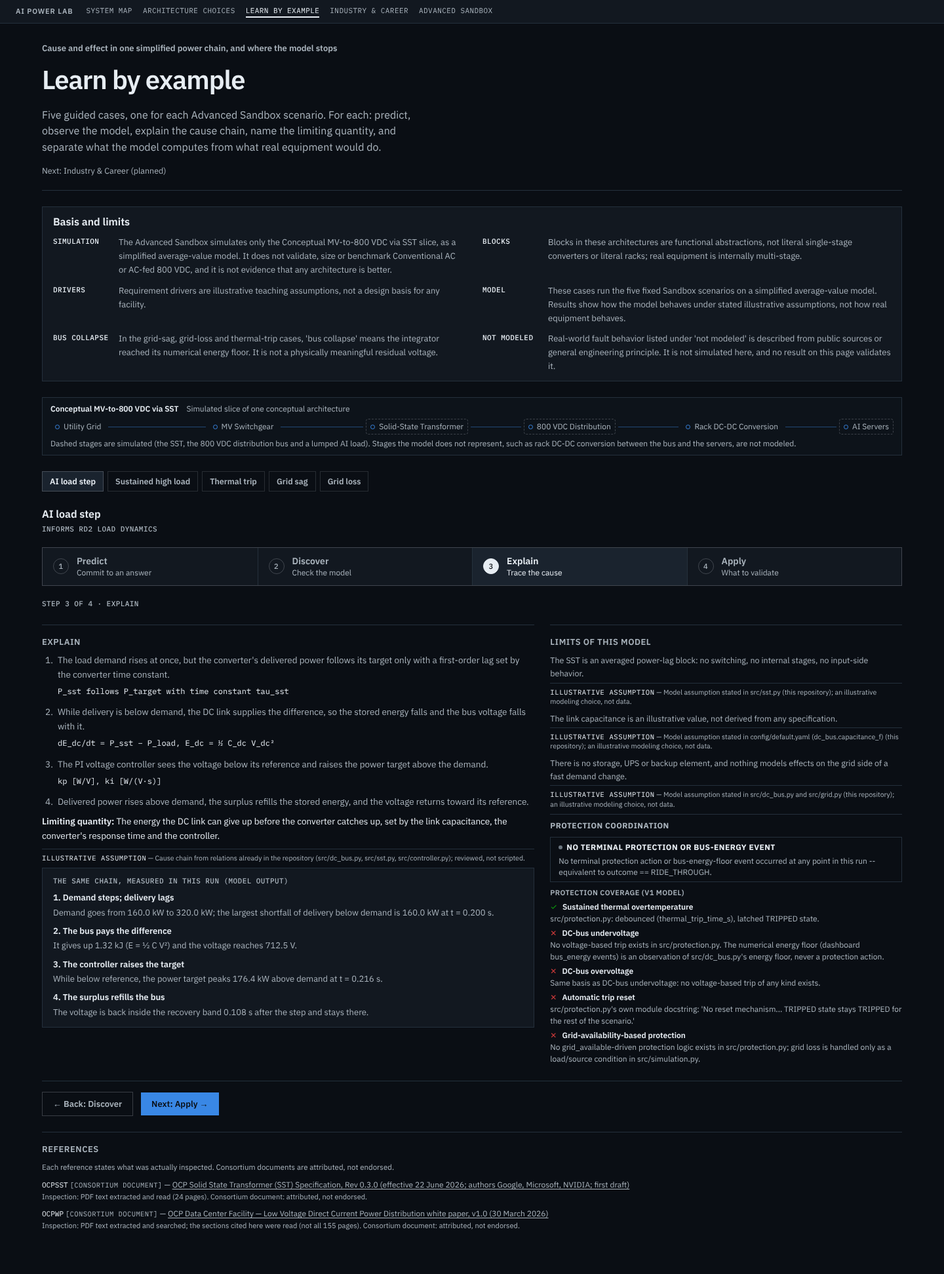
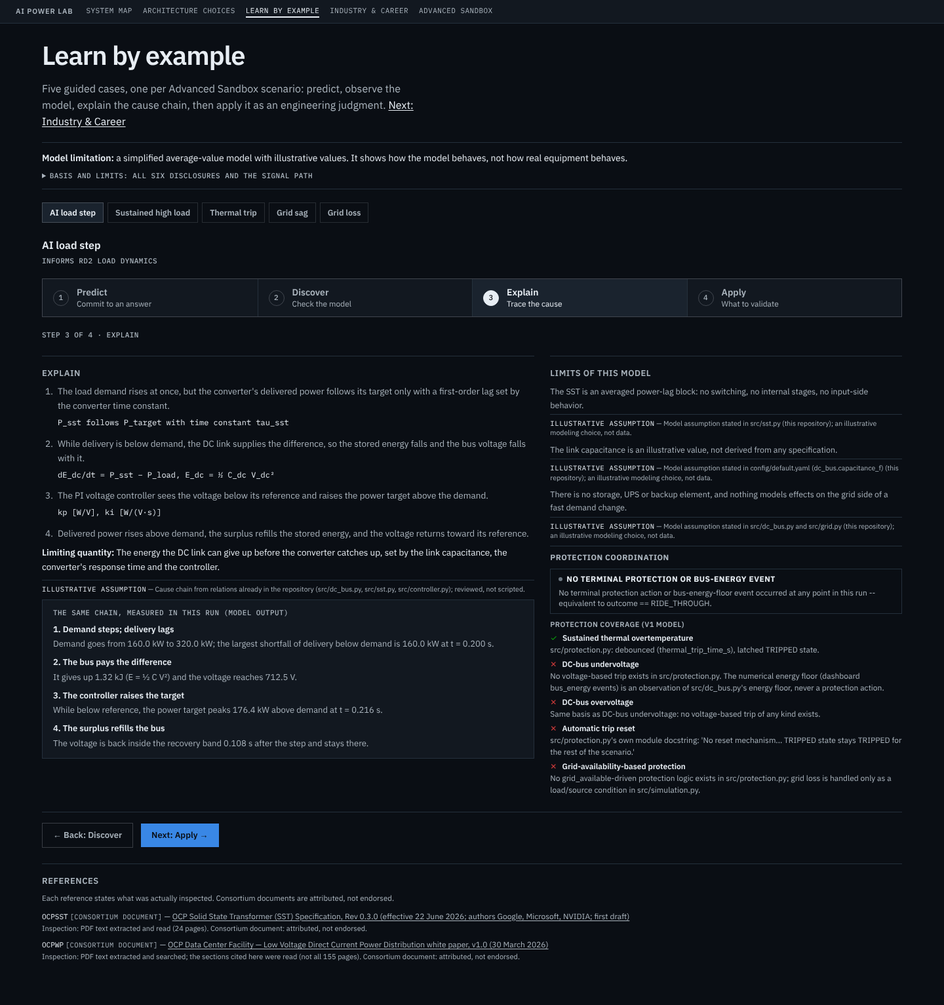
M1 UX refinement (SPEC-012 A3): compact layout, collapsed basis, predictive Predict, three-step Discover
Claude-Session: https://claude.ai/code/session_01FHx4NQvucsq8ryhH6QfcJu

diff --git a/frontend/app/learn/page.tsx b/frontend/app/learn/page.tsx
@@ -1,4 +1,5 @@
 import type { Metadata } from "next";
+import Link from "next/link";
 
 import { BasisPanel } from "../components/BasisPanel";
 import { LearnByExample } from "../components/LearnByExample";
@@ -10,7 +11,7 @@ export const metadata: Metadata = {
   title: "Learn by Example | AI Power Lab",
 };
 
-// The six SPEC-012 disclosures, verbatim, always visible (SPEC-012 §6.5, AC-6).
+// The six SPEC-012 disclosures, verbatim (SPEC-012 §6.5, AC-6). They sit in an expandable section (amendment A3).
 const DISCLOSURE_ITEMS = [
   { tag: "Simulation", text: DISCLOSURES.sim },
   { tag: "Blocks", text: DISCLOSURES.block },
@@ -21,29 +22,43 @@ const DISCLOSURE_ITEMS = [
 ] as const;
 
 /**
- * Learn by Example (SPEC-012, four-step shell per amendment A1). Five guided
- * cases over the five existing Sandbox scenarios; live model output comes
- * from the existing endpoints via the `LearnByExample` client component.
- * This server component holds the page header, the signal-path rail and the
- * visible disclosures.
+ * Learn by Example (SPEC-012, four-step shell per amendment A1, interactive
+ * Load Step per A2, compact layout per A3). The case selector and the four
+ * steps sit high on the page. One concise limitation statement is always
+ * visible; the six full disclosures and the signal-path rail are in a native
+ * expandable section (collapsed by default, content in the DOM).
  */
 export default function LearnByExamplePage() {
   return (
-    <main className="ic-page flex flex-col gap-6">
-      <header className="flex flex-col gap-2 border-b border-hairline pb-5">
-        <p className="ic-eyebrow">Cause and effect in one simplified power chain, and where the model stops</p>
+    <main className="ic-page flex flex-col gap-5">
+      <header className="flex flex-col gap-1.5">
         <h1 className="ic-h1">Learn by example</h1>
         <p className="ic-lede">
-          Five guided cases, one for each Advanced Sandbox scenario. For each: predict, observe the model, explain the
-          cause chain, name the limiting quantity, and separate what the model computes from what real equipment would
-          do.
-        </p>
-        <p className="ic-small" style={{ marginTop: 6 }}>
-          Next: Industry &amp; Career (planned)
+          Five guided cases, one per Advanced Sandbox scenario: predict, observe the model, explain the cause chain, then
+          apply it as an engineering judgment.{" "}
+          <Link href="/industry" className="text-primary underline underline-offset-2 hover:opacity-80 focus-visible:outline-2 focus-visible:outline-offset-2 focus-visible:outline-secondary">
+            Next: Industry &amp; Career
+          </Link>
         </p>
       </header>
-      <BasisPanel items={DISCLOSURE_ITEMS} testId="learn-disclosures" />
-      <SignalPathRail architecture="mv-to-800vdc" simulatedSlice note="Simulated slice of one conceptual architecture" />
+
+      <section aria-label="Model limitations" className="flex flex-col gap-2 border-y border-hairline py-3">
+        <p className="text-[14px] leading-relaxed text-primary" data-testid="learn-limitation">
+          <span className="font-semibold">Model limitation: </span>
+          a simplified average-value model with illustrative values. It shows how the model behaves, not how real
+          equipment behaves.
+        </p>
+        <details data-testid="learn-basis">
+          <summary className="cursor-pointer font-mono text-meta uppercase text-secondary hover:text-primary focus-visible:outline-2 focus-visible:outline-offset-2 focus-visible:outline-secondary">
+            Basis and limits: all six disclosures and the signal path
+          </summary>
+          <div className="mt-3 flex flex-col gap-3">
+            <BasisPanel title="Disclosures" items={DISCLOSURE_ITEMS} testId="learn-disclosures" />
+            <SignalPathRail architecture="mv-to-800vdc" simulatedSlice note="Simulated slice of one conceptual architecture" />
+          </div>
+        </details>
+      </section>
+
       <LearnByExample />
     </main>
   );

diff --git a/frontend/app/lib/loadStepLesson.ts b/frontend/app/lib/loadStepLesson.ts
@@ -17,30 +17,31 @@ export type PredictionId = "falls-recovers" | "rises" | "flat" | "falls-stays";
 
 export const PREDICTION_OPTIONS: ReadonlyArray<{ id: PredictionId; label: string; reasoning: string }> = [
   {
-    id: "falls-recovers",
-    label: "It falls first, then returns toward its reference.",
-    reasoning:
-      "This matches the cause chain: delivery lags demand, the bus supplies the gap and falls, then the controller adds corrective power above demand, so delivery overtakes demand and the stored energy is refilled.",
-  },
-  {
     id: "rises",
-    label: "It rises, because more demand pulls more power into the bus.",
+    label: "It rises above its reference.",
     reasoning:
       "Demand does not push power in. Delivered power follows its target with a lag, and the bus supplies whatever delivery does not cover, so stored energy drops first.",
   },
   {
+    id: "falls-recovers",
+    label: "It falls, then returns toward its reference.",
+    reasoning:
+      "This matches the cause chain: delivery lags demand, the bus supplies the gap and falls, then the controller adds corrective power above demand, so delivery overtakes demand and the stored energy is refilled.",
+  },
+  {
     id: "flat",
-    label: "It stays put, because the converter follows demand immediately.",
+    label: "It stays at its reference.",
     reasoning:
       "That would need an instant converter. In this model delivered power follows its target only with a first-order lag, so a gap opens at the step.",
   },
   {
     id: "falls-stays",
-    label: "It falls and stays down unless something outside the chain helps.",
+    label: "It falls and stays down.",
     reasoning:
       "Falling is right. Whether it stays down depends on the controller and on headroom: here the controller adds a corrective power above demand while the voltage is below its reference and the converter can deliver it, so delivery overtakes demand and refills the bus. With less headroom or saturation that recovery would not be guaranteed, which is why this run shows recovery for this model and these illustrative values only.",
   },
 ];
+
 
 export type ObservedOutcome = "falls-recovers" | "rises" | "flat" | "falls-stays";
 
@@ -210,3 +211,14 @@ export const APPLY_QUESTION = {
 } as const;
 
 export type ApplyOptionId = (typeof APPLY_QUESTION.options)[number]["id"];
+
+/**
+ * Discover: the physical cause chain in three short, visually structured
+ * steps (static, number-free prose). The detailed technical explanation sits
+ * in a separate expandable section; the Explain step has the full chain.
+ */
+export const CAUSE_CHAIN_SHORT: ReadonlyArray<{ title: string; body: string }> = [
+  { title: "Delivery lags demand", body: "Demand jumps at once; the converter's power follows with a lag." },
+  { title: "The bus pays", body: "The DC link covers the gap, so stored energy and voltage fall." },
+  { title: "Control refills it", body: "The controller adds corrective power until the voltage is back." },
+];

diff --git a/frontend/app/components/LearnByExample.tsx b/frontend/app/components/LearnByExample.tsx
@@ -40,6 +40,7 @@ import {
   ApplyQuestionPanel,
   CursorPanel,
   DiscoverGate,
+  CauseChainCard,
   GroundingPanel,
   PredictPicker,
   PredictionComparison,
@@ -241,13 +242,7 @@ function CaseView({
             <Section title="Predict" testId="part-predict">
               <StaticProse>
                 <p className="max-w-3xl text-[14px] leading-relaxed text-primary">{c.predict.question}</p>
-                {isLesson ? (
-                  committed && (
-                    <p className="max-w-3xl text-[12.5px] leading-relaxed text-secondary" data-testid="predict-reveal">
-                      {c.predict.reveal}
-                    </p>
-                  )
-                ) : (
+                {isLesson ? null : (
                   <details className="max-w-3xl">
                     <summary className="cursor-pointer font-sans text-[12px] font-semibold uppercase tracking-[0.04em] text-secondary hover:text-primary focus-visible:outline-2 focus-visible:outline-offset-2 focus-visible:outline-secondary">
                       Show the expected outcome
@@ -561,8 +556,10 @@ function RunView({ c, data, prediction }: { c: Case; data: ScenarioRunResponse; 
     <div className="flex flex-col gap-3">
       {/* The interpretation's prose points at the Power Balance chart "below",
           so it sits above the charts (SPEC-012 R5). */}
-      {metrics && prediction && <PredictionComparison choice={prediction} observed={observedOutcome(metrics, vRef)} />}
-      {metrics && <EngineeringInterpretation metrics={metrics} voltageReferenceV={vRef} />}
+      {metrics && prediction && (
+        <PredictionComparison choice={prediction} observed={observedOutcome(metrics, vRef)} expected={c.predict.reveal} />
+      )}
+      {metrics && <CauseChainCard />}
       {metrics && (
         <CursorPanel
           index={cursorIndex}
@@ -615,7 +612,17 @@ function RunView({ c, data, prediction }: { c: Case; data: ScenarioRunResponse; 
         />
       </div>
       <ProtectionTimeline timeline={data.protection_timeline} />
-      {metrics && <TransientMetricsPanel metrics={metrics} voltageReferenceV={vRef} />}
+      {metrics && (
+        <details className="border border-hairline bg-surface px-4 py-3" data-testid="technical-details">
+          <summary className="cursor-pointer font-sans text-[13px] font-semibold text-primary focus-visible:outline-2 focus-visible:outline-offset-2 focus-visible:outline-secondary">
+            Detailed technical explanation and engineering result
+          </summary>
+          <div className="flex flex-col gap-3 pt-3">
+            <EngineeringInterpretation metrics={metrics} voltageReferenceV={vRef} />
+            <TransientMetricsPanel metrics={metrics} voltageReferenceV={vRef} />
+          </div>
+        </details>
+      )}
       {c.busCollapseCase && (
         <p className="max-w-3xl text-[11.5px] leading-relaxed text-secondary">{LEARN_DISCLOSURES.d2}</p>
       )}

diff --git a/frontend/app/components/LoadStepLesson.tsx b/frontend/app/components/LoadStepLesson.tsx
@@ -4,6 +4,7 @@ import { useState } from "react";
 
 import {
   APPLY_QUESTION,
+  CAUSE_CHAIN_SHORT,
   OBSERVED_TEXT,
   PHASE_TEXT,
   PREDICTION_OPTIONS,
@@ -136,9 +137,12 @@ export function DiscoverGate({ onGoPredict, onSkip }: { onGoPredict: () => void;
 export function PredictionComparison({
   choice,
   observed,
+  expected,
 }: {
   choice: PredictionId;
   observed: ObservedOutcome;
+  /** The authored expected-outcome text; shown only here, after the learner has committed. */
+  expected: string;
 }) {
   const picked = PREDICTION_OPTIONS.find((o) => o.id === choice)!;
   const match = choice === observed;
@@ -157,7 +161,34 @@ export function PredictionComparison({
         <span className="font-semibold text-primary">{match ? "Match. " : "Not a match. "}</span>
         {picked.reasoning}
       </p>
+      <p className="text-[13px] leading-relaxed text-secondary" data-testid="prediction-expected">
+        <span className="font-semibold text-primary">Expected outcome: </span>
+        {expected}
+      </p>
     </div>
+  );
+}
+
+/** Discover: the physical cause chain in three short, visually structured steps. */
+export function CauseChainCard() {
+  return (
+    <section aria-label="Cause chain in three steps" data-testid="cause-chain" data-static-prose className="flex flex-col gap-2">
+      <h5 className="font-mono text-meta uppercase text-secondary">Why it happens, in three steps</h5>
+      <ol className="grid grid-cols-1 gap-0 border border-hairline sm:grid-cols-3">
+        {CAUSE_CHAIN_SHORT.map((c, i) => (
+          <li key={c.title} className="flex gap-3 border-hairline px-4 py-3 [&:nth-child(n+2)]:border-t sm:[&:nth-child(n+2)]:border-l sm:[&:nth-child(n+2)]:border-t-0">
+            {/* data-equation: the list numeral is excluded from the static-prose digit scan (SPEC-012 R6, list numbering). */}
+            <span aria-hidden="true" data-equation className="flex h-6 w-6 shrink-0 items-center justify-center rounded-full border border-hairline-strong font-mono text-meta text-primary">
+              {i + 1}
+            </span>
+            <span className="flex flex-col gap-0.5">
+              <span className="text-[14px] font-semibold text-primary">{c.title}</span>
+              <span className="text-[13px] leading-snug text-secondary">{c.body}</span>
+            </span>
+          </li>
+        ))}
+      </ol>
+    </section>
   );
 }
 

diff --git a/frontend/app/lib/learnByExampleData.ts b/frontend/app/lib/learnByExampleData.ts
@@ -168,11 +168,11 @@ export const CASES: Record<ScenarioName, Case> = {
     busCollapseCase: false,
     drivers: ["rd2"],
     situation: {
-      text: "The AI load suddenly asks for more power while the chain is in a steady state. The converter cannot deliver the new demand instantly, so something else has to cover the gap. The question is what the DC bus does in the meantime and what brings it back.",
+      text: "The AI load suddenly asks for more power while the chain is in a steady state. The question is what the DC bus voltage does afterward.",
       ...MODEL_ASSUMPTION("the Sandbox's fixed load-step preset"),
     },
     predict: {
-      question: "Before looking at the chart: after the load steps up, does the bus voltage rise, fall, or stay put, and what finally restores it?",
+      question: "Before looking at any result: after the load steps up, what do you expect the DC bus voltage to do?",
       reveal: "Expect the voltage to fall first, because demand exceeds delivered power until the converter catches up, and then to return toward its reference once the controller has pushed delivered power above demand long enough to refill the bus energy.",
       ...AUTHORED("Authored expectation; checked against the live response by the verification script."),
     },

diff --git a/docs/validation/spec-012-a2/verify_load_step_lesson.py b/docs/validation/spec-012-a2/verify_load_step_lesson.py
@@ -19,6 +19,7 @@ from playwright.sync_api import sync_playwright
 BASE, API, OUT = sys.argv[1].rstrip("/"), sys.argv[2].rstrip("/"), sys.argv[3]
 os.makedirs(OUT + "/shots", exist_ok=True)
 res = []
+norm = lambda x: re.sub(r"\s+", " ", x)
 def rec(check, ok, detail=""):
     res.append({"check": check, "result": "PASS" if ok else "FAIL", "detail": detail})
     print(("PASS " if ok else "FAIL ") + check, detail)
@@ -49,16 +50,36 @@ with sync_playwright() as p:
     pg.goto(BASE + "/learn", wait_until="networkidle"); pg.wait_for_timeout(1200)
 
     # L1, L2
+    pg.screenshot(path=f"{OUT}/shots/m1-1440-0-fold.png")
     pg.screenshot(path=f"{OUT}/shots/m1-1440-1-predict.png", full_page=True)
     rec("L1 predict picker has four options", pg.locator('[data-testid^="prediction-"][type="radio"]').count() == 4)
     rec("L2 commit disabled before a pick", pg.locator('[data-testid="commit-prediction"]').is_disabled())
-    rec("L2 reveal hidden before commit", pg.locator('[data-testid="predict-reveal"]').count() == 0)
+    # L12 (amendment A3): the answer and its causal explanation are hidden until commitment, after a pick too
+    src = open(os.path.join(os.path.dirname(os.path.abspath(__file__)), "../../../frontend/app/lib/loadStepLesson.ts")).read()
+    data = open(os.path.join(os.path.dirname(os.path.abspath(__file__)), "../../../frontend/app/lib/learnByExampleData.ts")).read()
+    reveal = re.search(r'reveal:\s*"((?:[^"\\]|\\.)*)"', data[data.index("load_step: {"):]).group(1)
+    reasonings = re.findall(r'reasoning:\s*\n?\s*"((?:[^"\\]|\\.)*)"', src)
+    hints = ["lag", "refill", "stored energy", "time constant", "corrective", "drain", "first-order", "the gap", "feedforward"]
+    def leaks():
+        body = norm(pg.evaluate("()=>document.body.innerText")).lower()
+        return [x[:30] for x in [reveal] + reasonings if norm(x).lower() in body] + [h for h in hints if re.search(r"\b" + re.escape(h) + r"\b", body)] + (["Expected outcome"] if "expected outcome" in body else [])
+    l0 = leaks()
+    pg.locator('label:has([data-testid="prediction-rises"])').click(); pg.wait_for_timeout(100)
+    l1 = leaks()
+    pg.locator('label:has([data-testid="prediction-falls-recovers"])').click(); pg.wait_for_timeout(100)
+    l2 = leaks()
+    pg.screenshot(path=f"{OUT}/shots/m1-1440-1b-predict-picked.png", full_page=True)
+    step(pg, "discover"); l3 = leaks()
+    rec("L12 Predict answer and causal hints absent from the page before commit (no pick / after a pick / on the Discover gate)", not (l0 or l1 or l2 or l3) and len(reasonings) == 4 and len(reveal) > 20, str([l0, l1, l2, l3]))
+    # L13 (amendment A3): case selector and stepper high on the page, details collapsed by default
+    fb = pg.evaluate("()=>{const s=document.querySelector('fieldset input[name=\"learn-case\"]').closest('fieldset').getBoundingClientRect(),t=document.querySelector('[data-testid=\"learn-stepper\"]').getBoundingClientRect();return [s.top,s.bottom,t.top,t.bottom,innerHeight]}")
+    rec("L13 case selector and four-step control fully inside the first 1440x900 screen; limitation visible; basis collapsed", fb[1] < fb[4] and fb[3] < fb[4] and pg.locator('[data-testid="learn-limitation"]').is_visible() and pg.locator('[data-testid="learn-basis"]').get_attribute("open") is None, str(fb))
     step(pg, "discover")
     rec("L1 Discover gated before commit", pg.locator('[data-testid="discover-gate"]').is_visible() and pg.locator('[data-testid="observe-live"]').count() == 0 and pg.locator('[data-testid="cursor-panel"]').count() == 0)
     step(pg, "predict")
     pg.locator('label:has([data-testid="prediction-falls-recovers"])').click()
     pg.locator('[data-testid="commit-prediction"]').click(); pg.wait_for_timeout(200)
-    rec("L2 commit locks options and shows reveal", pg.locator('[data-testid="prediction-committed"]').is_visible() and pg.locator('[data-testid="prediction-falls-recovers"]').is_disabled() and pg.locator('[data-testid="predict-reveal"]').count() == 1)
+    rec("L2 commit locks options; the expected-outcome text is still not on the Predict step", pg.locator('[data-testid="prediction-committed"]').is_visible() and pg.locator('[data-testid="prediction-falls-recovers"]').is_disabled() and pg.locator('[data-testid="prediction-expected"]').count() == 0 and not leaks())
 
     # L3 L4
     pg.get_by_role("button", name=re.compile("Check it against the model")).click(); pg.wait_for_timeout(1800)
@@ -66,6 +87,15 @@ with sync_playwright() as p:
     ver = pg.locator('[data-testid="prediction-verdict"]').inner_text()
     rec("L3 comparison agrees with independent classification", expected_obs == "falls-recovers" and "fell below its reference and then returned" in obs and ver.startswith("Match."), f"{obs} | {ver[:40]}")
     pg.screenshot(path=f"{OUT}/shots/m1-1440-2-discover.png", full_page=True)
+    # L14 (amendment A3): Discover density: exactly three short cause-chain steps, detailed explanation collapsed and separate
+    cc = pg.locator('[data-testid="cause-chain"] li'); td = pg.locator('[data-testid="technical-details"]')
+    words = len(re.findall(r"\w+", pg.locator('[data-testid="cause-chain"]').inner_text()))
+    td_text_closed = pg.locator('[data-testid="technical-details"]').inner_text()
+    td.locator("summary").click(); pg.wait_for_timeout(150)
+    td_text_open = pg.locator('[data-testid="technical-details"]').inner_text()
+    td.locator("summary").click()
+    rec("L14 Discover: three cause-chain steps (<=60 words), technical explanation collapsed by default and holds the interpretation and engineering result", cc.count() == 3 and words <= 60 and "WHY THIS HAPPENED" not in td_text_closed.upper() and "WHY THIS HAPPENED" in td_text_open.upper() and "ENGINEERING RESULT" in td_text_open.upper(), f"words={words}")
+    rec("L12 expected outcome and reasoning appear only after commit, in Discover", pg.locator('[data-testid="prediction-expected"]').count() == 1)
     sl = pg.locator('[data-testid="cursor-slider"]')
     t0, t1 = T["time_s"][0], T["time_s"][-1]
     exp_x = lambda t: 44 + (t - t0) / (t1 - t0) * (600 - 44 - 12)   # TelemetryChart: W=600, MARGIN.left=44, MARGIN.right=12
@@ -156,7 +186,7 @@ with sync_playwright() as p:
     ok9 = True
     for cid in ["sustained_high_load", "thermal_trip", "grid_sag", "grid_loss"]:
         pick(pg, cid); pg.wait_for_timeout(1500)
-        step(pg, "predict"); a = pg.locator('[data-testid="predict-picker"]').count() == 0 and pg.locator("details summary").count() == 1
+        step(pg, "predict"); a = pg.locator('[data-testid="predict-picker"]').count() == 0 and pg.locator('[data-testid="part-predict"] details summary').count() == 1
         step(pg, "discover"); a &= pg.locator('[data-testid="discover-gate"]').count() == 0 and pg.locator('[data-testid="cursor-panel"]').count() == 0 and pg.locator('[data-testid="observe-live"]').count() == 1
         step(pg, "explain"); a &= pg.locator('[data-testid="grounding-panel"]').count() == 0
         step(pg, "apply"); a &= pg.locator('[data-testid="apply-question"]').count() == 0 and pg.locator('[data-testid="part-decision"]').count() == 1
@@ -168,6 +198,9 @@ with sync_playwright() as p:
     pm = b.new_page(viewport={"width": 390, "height": 844}); merr = []
     pm.on("console", lambda m: merr.append(m.text) if m.type in ("error", "warning") else None)
     pm.goto(BASE + "/learn", wait_until="networkidle"); pm.wait_for_timeout(1000)
+    pm.screenshot(path=f"{OUT}/shots/m1-390-0-fold.png")
+    mf = pm.evaluate("()=>{const s=document.querySelector('fieldset input[name=\"learn-case\"]').closest('fieldset').getBoundingClientRect(),t=document.querySelector('[data-testid=\"learn-stepper\"]').getBoundingClientRect();return [s.bottom,t.bottom,innerHeight]}")
+    rec("L13 390x844: case selector and four-step control fully inside the first screen", mf[0] < mf[2] and mf[1] < mf[2], str(mf))
     pm.screenshot(path=f"{OUT}/shots/m1-390-1-predict.png", full_page=True)
     pm.locator('label:has([data-testid="prediction-falls-recovers"])').click(); pm.locator('[data-testid="commit-prediction"]').click()
     allok = True

diff --git a/docs/validation/spec-012-a1/verify_learn_steps.py b/docs/validation/spec-012-a1/verify_learn_steps.py
@@ -65,10 +65,14 @@ with sync_playwright() as p:
     pg.goto(BASE + "/learn", wait_until="networkidle"); pg.wait_for_timeout(1500)
 
     # S1
+    # Amendment A3: a concise limitation is always visible; the six disclosures are in a collapsed-by-default expandable section
+    lim_ok = pg.locator('[data-testid="learn-limitation"]').is_visible() and pg.locator('[data-testid="learn-basis"]').get_attribute("open") is None
+    pg.locator('[data-testid="learn-basis"] summary').click(); pg.wait_for_timeout(150)
     panel = norm(pg.locator('[data-testid="learn-disclosures"]').inner_text())
-    rec("S1 six disclosures visible on load", pg.locator('[data-testid="learn-disclosures"] li').count() == 6 and all(norm(d) in panel for d in D_L + SRC_D)
+    rec("S1 concise limitation visible on load; six disclosures verbatim in the expandable section (collapsed by default); rail inside it", lim_ok and pg.locator('[data-testid="signal-path-rail"]').is_visible() and pg.locator('[data-testid="learn-disclosures"] li').count() == 6 and all(norm(d) in panel for d in D_L + SRC_D)
         and pg.locator('[data-testid="learn-disclosures"]').is_visible())
 
+    pg.locator('[data-testid="learn-basis"] summary').click()   # collapse again
     for i in IDS:
         pick(pg, i); pg.wait_for_timeout(1800)
         base_reqs = len(reqs)
@@ -106,7 +110,7 @@ with sync_playwright() as p:
                 rec(f"S4 {i} Explain coverage entries verbatim", not bad, str(bad))
             pg.screenshot(path=f"{OUT}/shots/learn-1440-{i}-{s}.png", full_page=True)
         rec(f"S2 {i} four steps reachable, only current mounted", mounted_ok)
-        rec(f"S3 {i} static scan (union over steps = 7 nodes)", nodes == 7 and not hits, f"nodes={nodes} hits={hits}")
+        rec(f"S3 {i} static scan (union over steps = 7 nodes, 8 for the Load Step lesson)", nodes == (8 if i == "load_step" else 7) and not hits, f"nodes={nodes} hits={hits}")
         rec(f"S5 {i} no refetch on step change", len(reqs) == base_reqs, f"extra={len(reqs) - base_reqs}")
 
     # Back navigation, case-change reset, re-activating the current step (Codex findings 2 and 3)

diff --git a/docs/specifications/SPEC-012-learn-by-example-v1.md b/docs/specifications/SPEC-012-learn-by-example-v1.md
@@ -312,6 +312,15 @@ Scope: the `load_step` case only; the other four cases are unchanged. Requested 
 - A2-R6 Authored prose follows R6 (no digits) and AC-5 (no ranking terms); the model numbers are live.
 - A2-Limits. The lesson teaches one mechanism of one averaged, illustrative model. It does not validate any architecture, and the controller is modeled with perfect load measurement and no switching behavior (src/controller.py).
 
+## 15c. Amendment A3: compact layout and a genuinely predictive Predict (M1 Human Visual QA feedback)
+
+Requested by the Human Engineering Lead after Human Visual QA of the M1 Load Step lesson (2026-10-22). Presentation and authored-prose changes only: no change to the engine, numerical results, API contracts, chart calculations, the five cases' claims (R16) or the other four cases' behavior.
+
+- A3-R1 **Layout.** The case selector and the four-step control sit in the first screen (1440x900 and 390x844). One concise limitation statement is always visible ("Model limitation: a simplified average-value model with illustrative values. It shows how the model behaves, not how real equipment behaves."). The six disclosures (AC-6) and the signal-path rail are in a native expandable section, collapsed by default, with all text in the DOM. **This is a Human-approved deviation** from DESIGN.md §1 and SPEC-014 F4 (Basis panel always visible, never collapsed) for `/learn` only, and it supersedes the "visible on initial load" wording of A1-R4 and AC-6: the concise statement is the always-visible disclosure, the six verbatim texts are one activation away. The stale "Industry & Career (planned)" hand-off now links to the implemented `/industry`.
+- A3-R2 **Predict.** Before commitment the page shows no causal hint, expected outcome or explanation. The four options are outcome-only, with the correct one not in first position. The Situation and Predict-question prose of the Load Step case no longer mention the converter's lag or the bus energy (those facts remain in Explain). The expected-outcome text and the per-option reasoning are shown only after commit, in Discover. Preserved: the model assumptions, the claims, and the native details reveal in the other four cases.
+- A3-R3 **Discover density.** The physical cause chain is three short steps (static, number-free, 60 words or fewer in total). The long interpretation prose and the engineering result tiles with their basis are in a collapsed, separately labeled "Detailed technical explanation and engineering result" section. The backend strings of AC-8, the charts, cursor, timeline, dominant stress and modeled outcome stay visible.
+- A3-R4 The static-prose scan now covers 8 nodes for the Load Step case (the cause-chain card is a `data-static-prose` node; its list numerals are marked `data-equation` as list numbering per R6).
+
 ## 14. Dependencies and Sequencing
 
 1. **PR #8 is merged at `4e6af36`** (provides `EvidenceTag`, label types, `DriverId`, `DISCLOSURES`, `REFERENCES`, nav pattern). `4e6af36` is the AC-12 baseline. Implementation does not start before this spec is approved.

diff --git a/docs/validation/SPEC-012-validation.md b/docs/validation/SPEC-012-validation.md
@@ -262,3 +262,8 @@ Not verified: real devices, other browsers, screen-reader behavior beyond roles 
 ### Amendment A2: Codex review (PR #14, head 977e536)
 
 Verdict **REQUEST CHANGES**: 1 major, 3 minor, 0 blocking (Codex CLI, read-only, session 01a16193-0de1-7983-aea8-274fe53a9d16; Codex did not rerun the browser script, the build or the engine). Codex found `observedOutcome`, cursor indexing, unit conversions and the unchanged other four cases consistent. Addressed in the follow-up commit: (1) the Predict reasoning and the Explain-adjacent prose no longer claim the controller "keeps raising" its target or "gives up"; they describe a corrective power above demand and say recovery depends on converter headroom and saturation (src/controller.py), so recovery is shown for this model and these illustrative values only; (2) the slider has `aria-valuetext` (time, V_dc, phase), is associated with the readout, and has a visible focus outline; (3) "Look without predicting" moves focus to the Discover heading; (4) L4 and L5 strengthened as above, and the record counts corrected. Not independently re-reviewed.
+
+
+## Amendment A3: UX refinement after Human Visual QA (verification record)
+
+Scripts re-run on the A3 build (production build, local backend): `docs/validation/spec-012-a2/verify_load_step_lesson.py` **23 PASS, 0 FAIL** and `docs/validation/spec-012-a1/verify_learn_steps.py` **39 PASS, 0 FAIL** (outputs: `verify_run_output.txt`, `verify_a1_on_m1_output.txt`). New checks: L12 the authored expected outcome, all four per-option reasoning texts and causal keywords (lag, refill, stored energy, time constant, corrective, drain, first-order, the gap, feedforward) are absent from the whole page text with no pick, after a pick, on the Discover gate and after commit while still on Predict, and appear only after "Check it against the model"; L13 the case selector and four-step control end inside the first screen at 1440x900 (selector bottom and stepper bottom below the viewport height) and at 390x844, the limitation is visible and the basis section is collapsed by default; L14 three cause-chain steps of 60 words or fewer, with the technical section collapsed by default and holding the interpretation and engineering result when opened. A1 S1 now checks the concise statement, the collapsed default and the six verbatim disclosures in the expanded section. Screenshots (desktop and mobile, including the first screen and the Predict step after a pick): `docs/validation/spec-012-a2/shots/`. Not verified: real devices, other browsers, screen readers beyond roles and focus, independent re-review of this pass.
